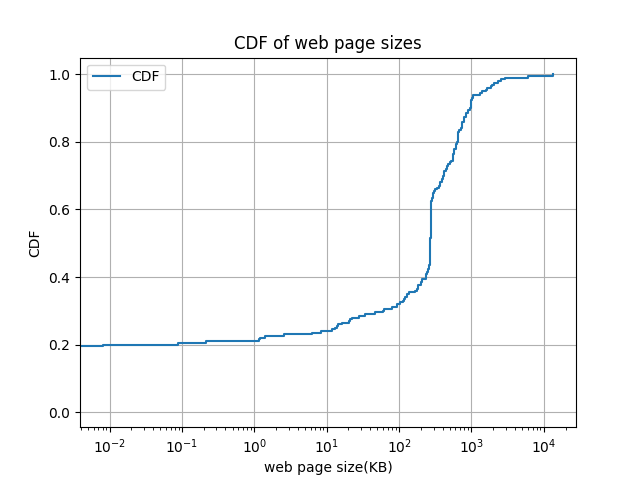
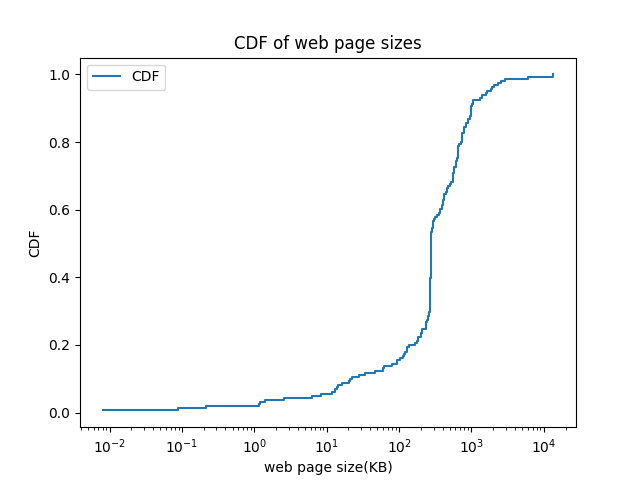
feat: update scripts to plot cwnd

diff --git a/Scripts/plot.py b/Scripts/plot.py
@@ -4,6 +4,8 @@ import pandas as pd
 import matplotlib.pyplot as plt
 import argparse
 import os
+import numpy as np
+import csv
 
 parser = argparse.ArgumentParser()
 parser.add_argument('path', type = str,
@@ -12,23 +14,121 @@ args = parser.parse_args()
 
 file_path = args.path
 
-df = pd.read_csv(file_path, header=None, sep=' ', names=['a', 'cwnd', 'RTT'])
+def plot_cwnd(file_path):
+    df = pd.read_csv(file_path, header=None, sep=' ', names=['a', 'cwnd', 'RTT'])
 
-# 提取第二列的值作为cwnd，第三列的值作为时间
-cwnd_values = df['cwnd']
-time_values = df['RTT']
+    # 提取第二列的值作为cwnd，第三列的值作为时间
+    cwnd_values = df['cwnd']
+    time_values = df['RTT']
 
-# 绘制cwnd随时间变化的图
-plt.figure(figsize=(10, 5))
-plt.plot(time_values, cwnd_values, marker='o')  # 使用圆点标记每个数据点
-plt.title('CWND vs RTT')
-plt.xlabel('RTT')
-plt.ylabel('CWND')
-plt.grid(True)
+    # 绘制cwnd随时间变化的图
+    plt.figure(figsize=(10, 5))
+    plt.plot(time_values, cwnd_values, marker='o')  # 使用圆点标记每个数据点
+    plt.title('CWND vs RTT')
+    plt.xlabel('RTT')
+    plt.ylabel('CWND')
+    plt.grid(True)
 
-# 保存图表
-input_dir = os.path.dirname(file_path)
-output_file_path = os.path.join(input_dir, 'cwnd.png')
-plt.savefig(output_file_path)
+    # 保存图表
+    input_dir = os.path.dirname(file_path)
+    output_file_path = os.path.join(input_dir, 'cwnd.png')
+    plt.savefig(output_file_path)
 
-plt.close()
+    plt.close()
+
+def plot_multiple_cwnd(dir_path):
+    # extract domain name in dir_path
+    domain_name = dir_path.split('/')[-1]
+    
+    # plot line chart using /dir_path/windows.csv
+    # plot dot using /dir_path/window*.csv
+    base_path = dir_path + '/windows.csv'
+    df = pd.read_csv(base_path, header=None, sep=' ', names=['a', 'cwnd', 'RTT'])
+    # 提取第二列的值作为cwnd，第三列的值作为时间
+    cwnd_values = df['cwnd']
+    time_values = df['RTT']
+    # 绘制cwnd随时间变化的图
+    plt.figure(figsize=(10, 5))
+    plt.plot(time_values, cwnd_values)  # 使用圆点标记每个数据点
+    plt.title(f'{domain_name}')
+    plt.xlabel('RTT')
+    plt.ylabel('CWND')
+    
+    idx = np.arange(len(time_values))
+    for i in range(5):
+        cur_file_path = f"{dir_path}/windows{i+1}.csv"
+        df = pd.read_csv(cur_file_path, header=None, sep=' ', names=['a', 'cwnd', 'RTT'])
+        cwnd_values = df['cwnd']
+        # with different colors
+        plt.scatter(idx, cwnd_values, label=f'trial {i+1}')
+        # plt.scatter(idx, cwnd_values, color='red', label=f'Window {i}')
+
+    plt.grid(True)
+    plt.legend()
+    # plt.show()
+    plt.savefig(f"{dir_path}/{domain_name}_cwnd.png")
+    plt.savefig(f"../figures/{domain_name}_cwnd.png")
+    
+
+
+def test():
+    # 假设x和y是两个长度相同的列表
+    x = [1, 2, 3, 4, 5]
+    y = [2, 3, 5, 7, 11]
+
+    # 绘制x的折线图
+    plt.plot(x, label='Line for x')
+
+    # 在x的每个位置上绘制y的点
+    idx = np.arange(len(x))
+    plt.scatter(idx, y, color='red', label='Points for y')
+
+    # 添加图例
+    plt.legend()
+
+    # 设置图表标题和轴标签
+    plt.title('Line and Points Plot')
+    plt.xlabel('X values')
+    plt.ylabel('Y values')
+
+    # 显示图表
+    plt.show()
+
+
+def draw_size_distri(sizePath, plotPath):
+    data = []
+    sizeFile = open(sizePath)
+    csvReader = csv.reader(sizeFile)
+    sizeInfos = list(csvReader)
+    sizeFile.close()
+    
+    for i in range(len(sizeInfos)):
+        # print(urlInfos[i])
+        sizeInfos[i] = sizeInfos[i][0].split(" ")
+        web_size = str(sizeInfos[i][1])
+        data.append(int(web_size) / 1000) # /KB
+    
+    # compute cdf
+    sorted_data = sorted(data)
+    sorted_data = [x for x in sorted_data if x > 0]
+    # print top five biggest and smallest web page sizes (> 0)
+    print(sorted_data[-5:])
+    print(sorted_data[:5])
+    cdf = np.arange(1, len(sorted_data) + 1) / len(sorted_data)
+    # plot cdf
+    plt.step(sorted_data, cdf, where='post', label='CDF')
+    plt.xscale('log')
+    plt.title('CDF of web page sizes')
+    plt.xlabel('web page size(KB)')
+    plt.ylabel('CDF')
+    plt.legend()
+    # plt.savefig(plotPath)
+    
+    
+if __name__ == '__main__':
+    # plot_cwnd(file_path)
+    # test()
+    # plot_multiple_cwnd(file_path)
+    draw_size_distri("../Alexa20k/web_size.csv",
+                     "../figures/size_distri.png")
+    

diff --git a/Scripts/test.py b/Scripts/test.py
@@ -7,7 +7,7 @@ import matplotlib.pyplot as plt
 import numpy as np
 
 def data_proc1(urlFilePath):
-    # projHomePath = "/home/ubuntu/Gordon"
+    # projHomePath = ".."
     # # projHomePath = "/home/vagrant"
 
     # urlFilePath = projHomePath + "/Data/google.com/windows1.csv"
@@ -154,42 +154,17 @@ def get_size_distri(urlFilePath, resultPath, sizePath, end, start = 0):
         cmd = ["rm", "indexPage"]
         subprocess.run(cmd)
 
-def draw_size_distri(sizePath, plotPath):
-    data = []
-    sizeFile = open(sizePath)
-    csvReader = csv.reader(sizeFile)
-    sizeInfos = list(csvReader)
-    sizeFile.close()
-    
-    for i in range(len(sizeInfos)):
-        # print(urlInfos[i])
-        sizeInfos[i] = sizeInfos[i][0].split(" ")
-        web_size = str(sizeInfos[i][1])
-        data.append(int(web_size) / 1000) # /KB
-    
-    # compute cdf
-    sorted_data = sorted(data)
-    cdf = np.arange(1, len(sorted_data) + 1) / len(sorted_data)
-    # plot cdf
-    plt.step(sorted_data, cdf, where='post', label='CDF')
-    plt.xscale('log')
-    plt.title('CDF of web page sizes')
-    plt.xlabel('web page size(KB)')
-    plt.ylabel('CDF')
-    plt.legend()
-    plt.grid(True)
-    plt.savefig(plotPath)
+
     
 
 if __name__ == "__main__":
-    # data_proc1("/home/ubuntu/Gordon/Data/google.com/windows1.csv")
-    # count_results("/home/ubuntu/Gordon/Alexa20k/cwnd_result.csv", 198)
-    # test_wget("/home/ubuntu/Gordon/Alexa20k/exp_links.csv", 133, 124)
-    # cc_clasify("/home/ubuntu/Gordon/Alexa20k/cwnd_result.csv", 211, 198)
-    # get_size_distri("/home/ubuntu/Gordon/Alexa20k/exp_links.csv",
-    #                 "/home/ubuntu/Gordon/Alexa20k/cwnd_result.csv",
-    #                 "/home/ubuntu/Gordon/Alexa20k/web_size.csv",
+    # data_proc1("../Data/google.com/windows1.csv")
+    count_results("../Alexa20k/cwnd_result.csv", 200)
+    # test_wget("../Alexa20k/exp_links.csv", 133, 124)
+    # cc_clasify("../Alexa20k/cwnd_result.csv", 211, 198)
+    # get_size_distri("../Alexa20k/exp_links.csv",
+    #                 "../Alexa20k/cwnd_result.csv",
+    #                 "../Alexa20k/web_size.csv",
     #                 end = 200, start = 116)
-    draw_size_distri("/home/ubuntu/Gordon/Alexa20k/web_size.csv",
-                     "/home/ubuntu/Gordon/figures/size_distri.png")
+    
     
